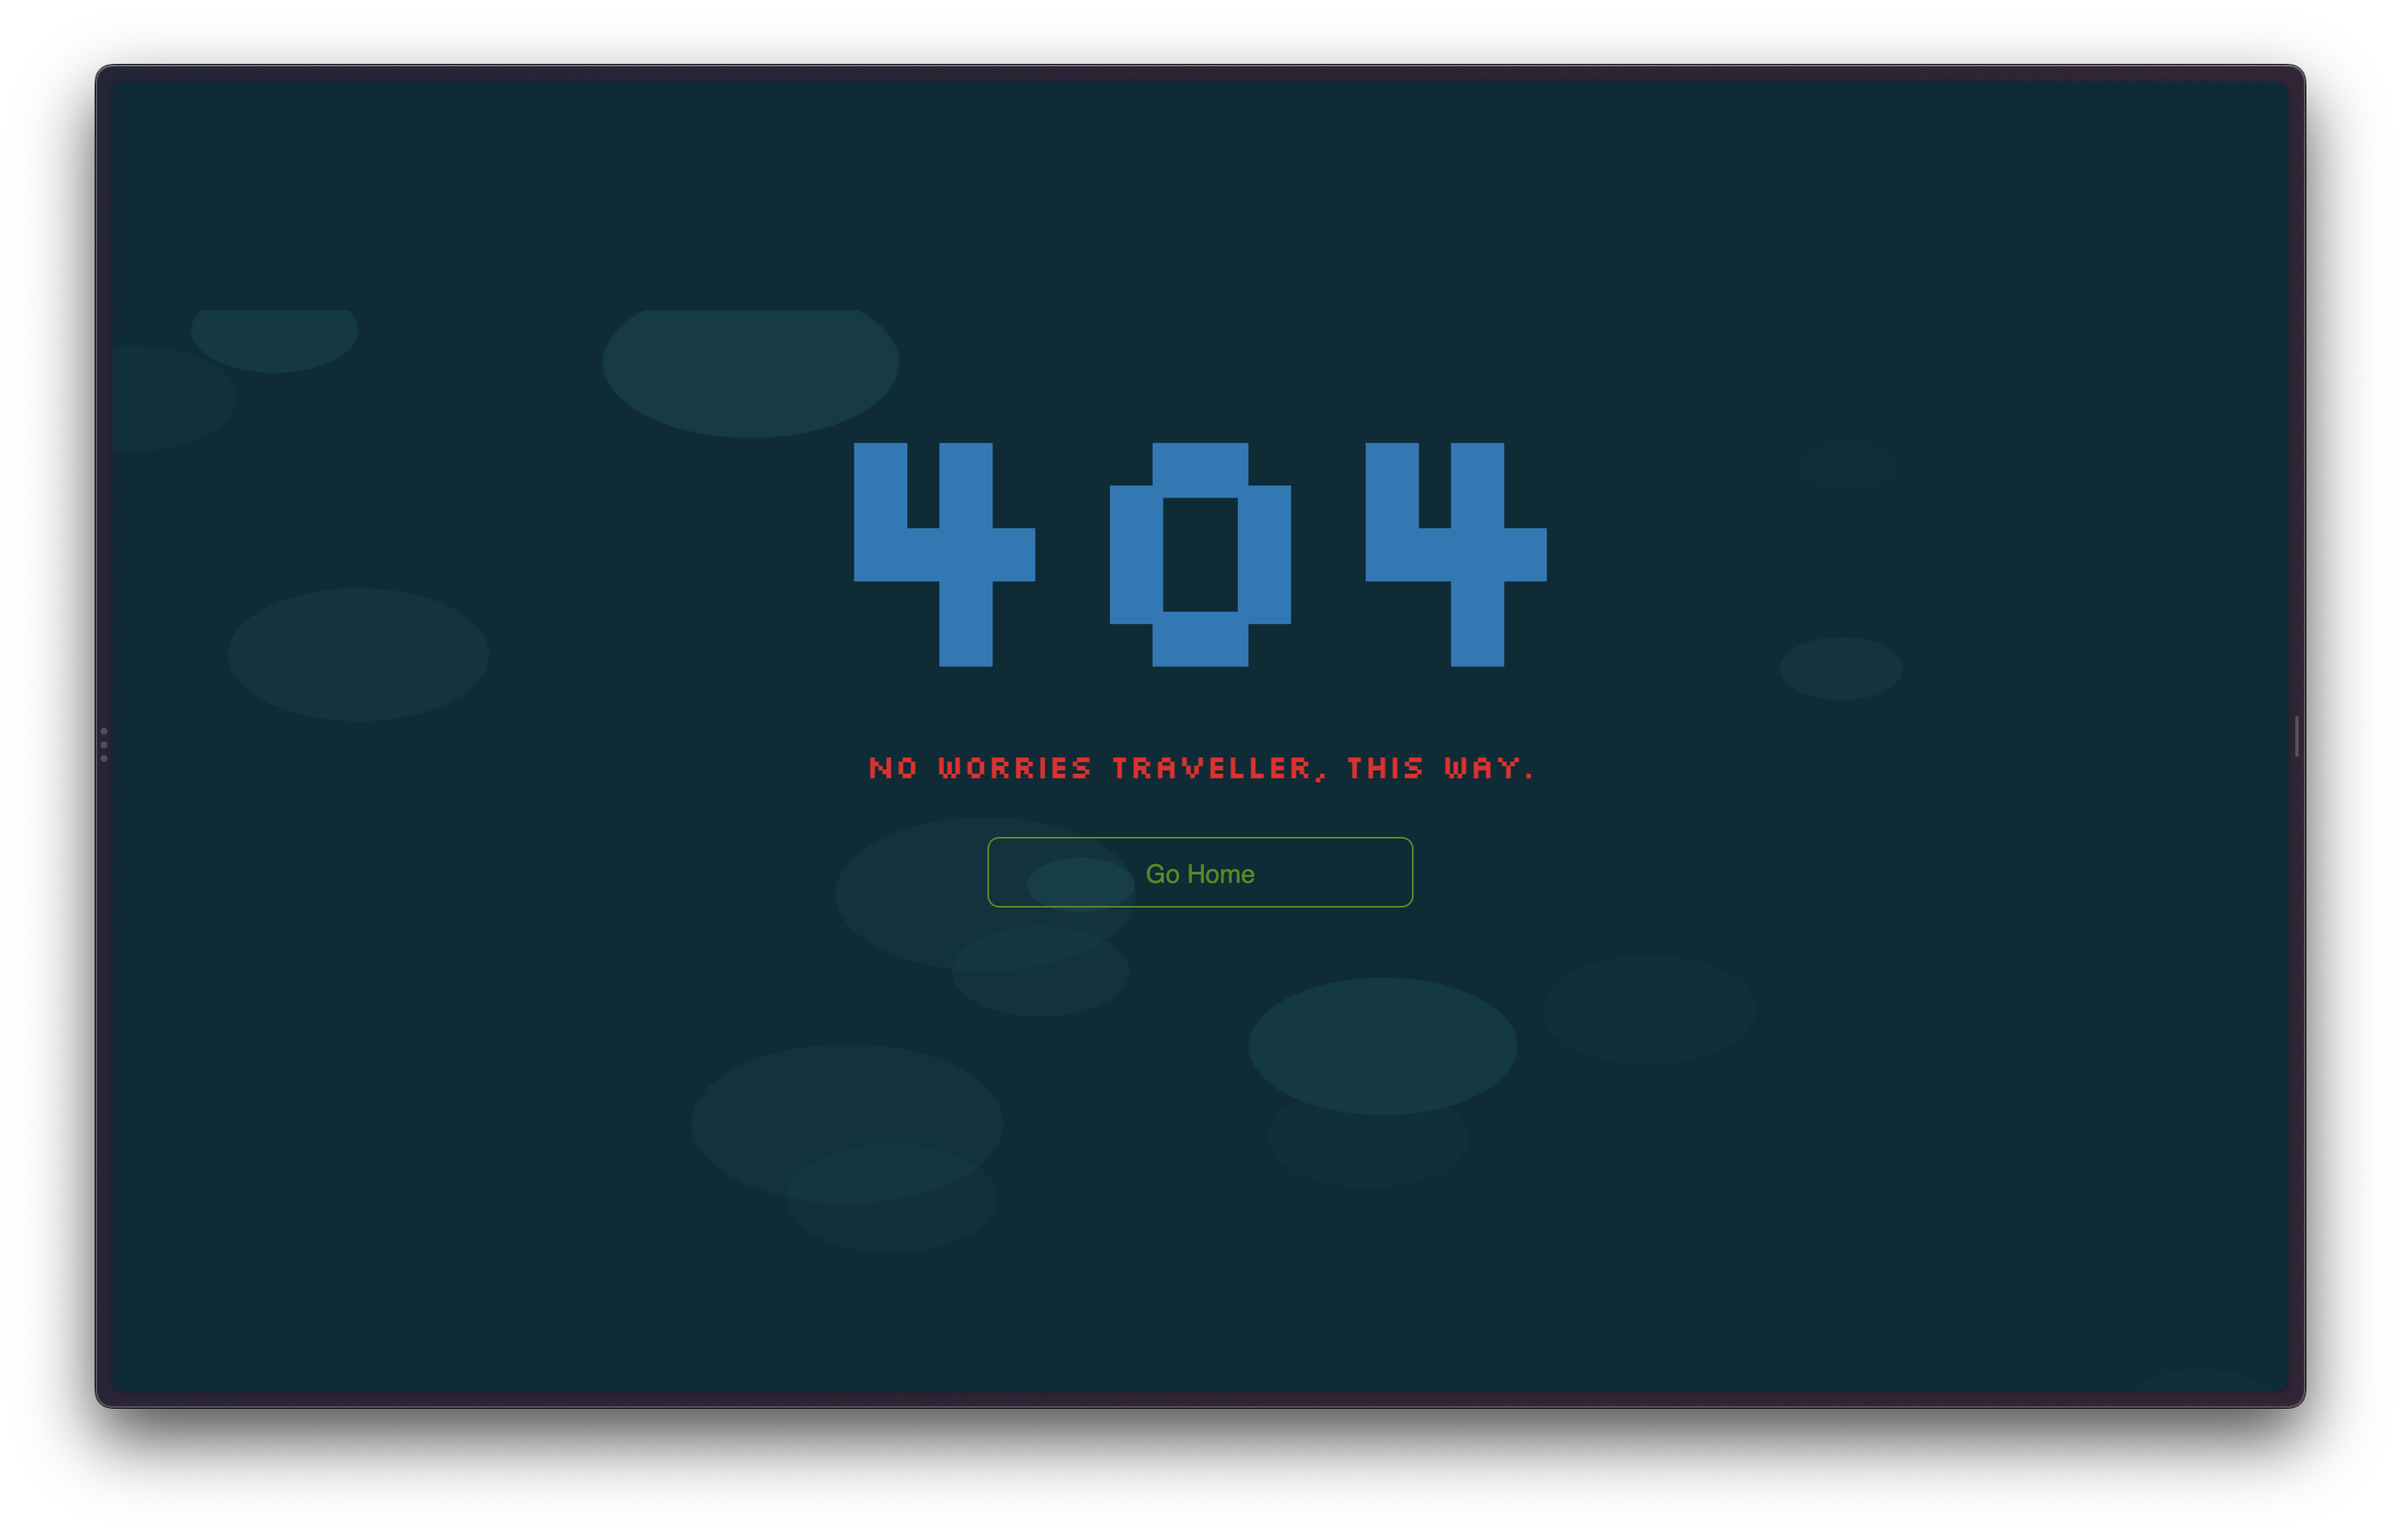
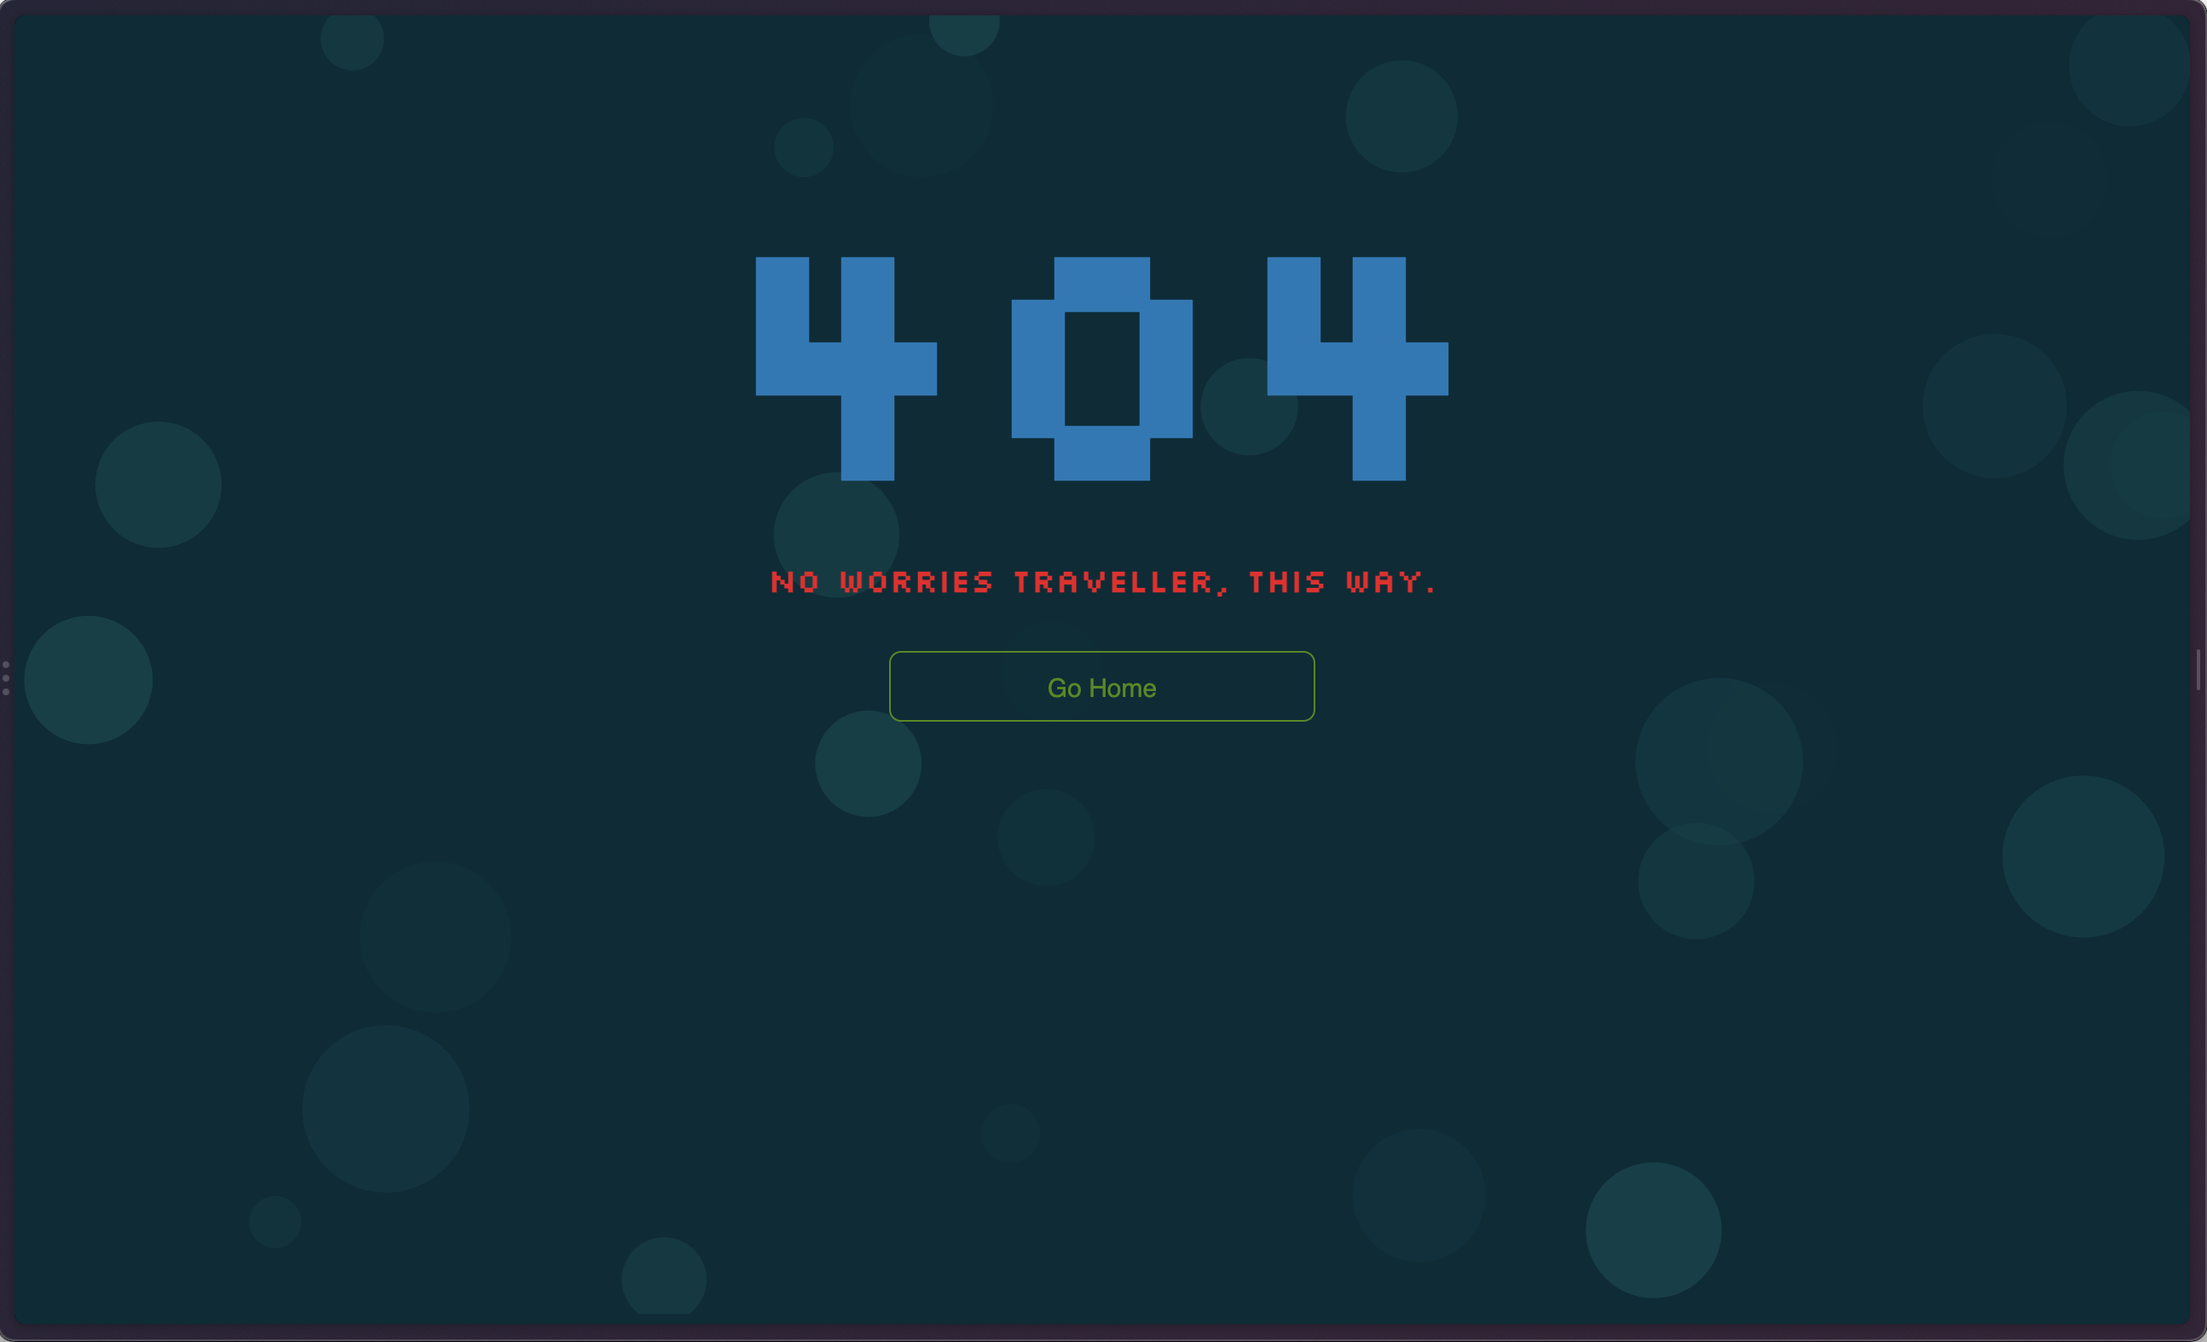
fix margin; add new screenshot;

Changed region(s): [[0.0, 0.0, 1.0, 1.0], [0.3399, 0.1867, 0.6798, 0.5289], [0.4635, 0.56, 0.5253, 0.5911]]

diff --git a/traveller/css/404.css b/traveller/css/404.css
@@ -4,7 +4,8 @@
 #tsparticles {
   width: 100%;
   height: 100%;
-  margin: 0px !important;
+  margin: 0px;
+  margin-top: -70px;
 }
 
 #tsparticles {
